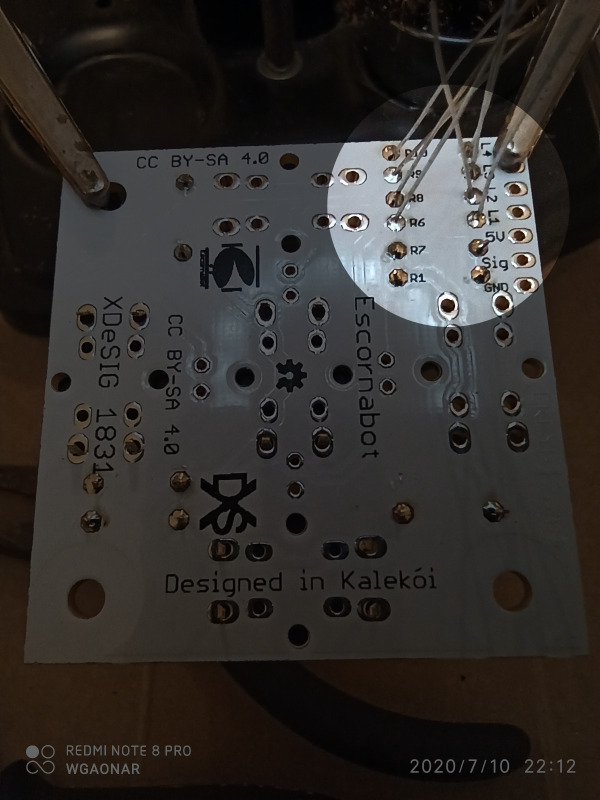
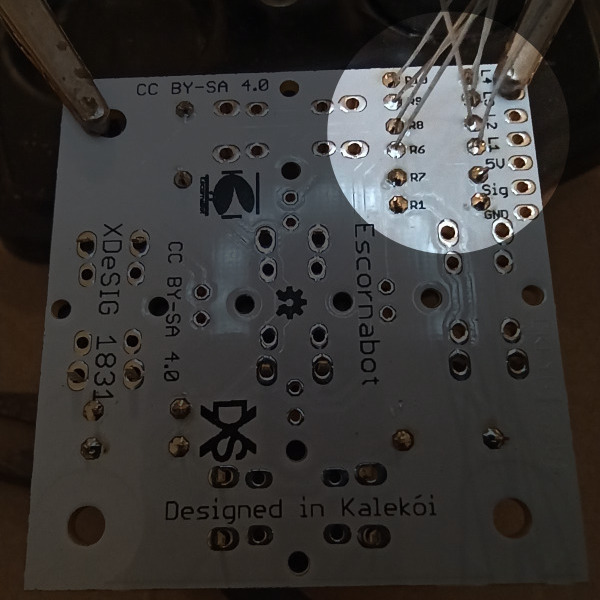
First images for soldering were included

diff --git a/Escornabot.md b/Escornabot.md
@@ -63,7 +63,7 @@ El cuerpo del Escornabot está compuesto por 7 partes impresas en 3D que se mues
 <h1>Componentes Electrónicos</h1>
 
 <h2>Lista de Componentes Electrónicos</h2>
-La siguiente tabla detalla la cantidad, descripción y la tarjeta (Botonera o la CPU) en la que irán colocados cada uno de los componentes del Escornabot. 
+La siguiente tabla detalla la cantidad y descripción de todos lo componentes electrónicos utilizados para el Escornabot y también la tarjeta, Botonera o CPU, en la que irán colocados. 
 
 <table>
     <colgroup>
@@ -73,7 +73,7 @@ La siguiente tabla detalla la cantidad, descripción y la tarjeta (Botonera o la
        <col span="1" style="width: 1%;">
        <col span="1" style="width: 1%;">
     </colgroup>
-  <caption>Lista de Componentes para el Escornabot</caption>
+  <caption>Tabla 1: Lista de Componentes para el Escornabot</caption>
   <tr>
     <th style="text-align:center">CANTIDAD TOTAL</th>
     <th style="text-align:center" >DESCRIPCIÓN</th>
@@ -283,6 +283,145 @@ La siguiente tabla detalla la cantidad, descripción y la tarjeta (Botonera o la
     <td style="text-align:center">-</td>
     <td style="text-align:center">-</td>
     <td style="text-align:center">1</td>
+  </tr>
+</table>
+
+<h2>Ensamble de la botonera E_KeyPad V2.2</h2>
+<h3>Lista de componentes para la botonera</h3>
+Los componentes requeridos para ensamblar la botonera y su correspondiente función se enlistan a continuación:
+
+<table>
+    <colgroup>
+       <col span="1" style="width: 10%;">
+       <col span="1" style="width: 10%;">
+       <col span="1" style="width: 20%;">
+       <col span="1" style="width: 40%;">
+    </colgroup>
+  <caption>Tabla 2: Descripción y funcionamiento de los componentes requeridos para la botonera</caption>
+  <tr>
+    <th style="text-align:center">CANT.</th>
+    <th style="text-align:center">DESCRIPCIÓN</th>
+    <th style="text-align:center">ETIQUETA</th>
+    <th style="text-align:center">FUNCIÓN</th>
+  </tr>
+  <tr>
+    <td style="text-align:center">4</td>
+    <td>Resistencia 1 KΩ</td>
+    <td style="text-align:center">R6, R8, R9, R10</td>
+    <td style="text-align:center">Resistencias para la activación de los Leds de la botonera</td>
+  </tr>
+  <tr>
+    <td style="text-align:center;" rowspan="2">5</td>
+    <td rowspan="2">Resistencia 10 KΩ</td>
+    <td>R1, R2, R3, R4</td>
+    <td>En conjunto con los botones, conforman el divisor de voltaje que permiten elegir el movimiento que el esconarbot realizará:
+      <ul>
+        <li>R1 conectada con el botón S1 selecciona un movimiento hacia 
+        <span style="color:white; background-color: blue;"> ADELANTE </span> </li>
+        <li>R2 conectada con el botón S2 selecciona un movimiento hacia la
+        <span style="color:white; background-color: red;"> IZQUIERDA </span> </li>
+        <li>R3 conectada con el botón S3 selecciona un movimiento hacia
+        <span style="color:black; background-color: yellow;"> ATRÁS </span> </li>
+        <li>R4 conectada con el botón S5 realiza la secuencia de movimentos 
+        <span style="color:white; background-color: black;"> GO </span></li>
+      </ul>
+    </td>
+  </tr>
+  <tr>
+    <td style="text-align:center">R7</td>
+    <td><span style="color:red;">Opcional: </span> Está presente en la botonera en caso de que se use una tarjeta de control diferente a la EscornaCPU V1.2 y en la que no se utilice la resistencia interna de PULL-UP del Arduino Nano. En el firmware del robot se tendría que definir la palabra clave: KEYBOARD_WIRES con el valor de 3. 
+    Por precaución, esta resistencia se puede soldar</td>
+  </tr>
+  <tr>
+    <td style="text-align:center">1</td>
+    <td>Resistencia 22 KΩ o de 20KΩ</td>
+    <td style="text-align:center">R5</td>
+    <td>La última resistencia del divisor de voltaje que conectada con el botón S4 selecciona un movimiento hacia la
+    <span style="color:white; background-color: green;"> DERECHA </span> </td>
+  </tr>
+  <tr>
+    <td style="text-align:center">1</td>
+    <td>Led de 3mm azul</td>
+    <td style="text-align:center">R5</td>
+    <td>Led indicador de un movimiento hacia
+    <span style="color:white; background-color: blue;"> ADELANTE </span></td>
+  </tr>
+  <tr>
+    <td style="text-align:center">1</td>
+    <td>Led de 3mm rojo</td>
+    <td style="text-align:center">R5</td>
+    <td>Led indicador de un movimiento hacia la
+    <span style="color:white; background-color: red;"> IZQUIERDA </span></td>
+  </tr>
+  <tr>
+    <td style="text-align:center">1</td>
+    <td>Led de 3mm amarillo</td>
+    <td style="text-align:center">R5</td>
+    <td>Led indicador de un movimiento hacia
+    <span style="color:black; background-color: yellow;"> ATRÁS </span> </td>
+  </tr>
+  <tr>
+    <td style="text-align:center">1</td>
+    <td>Led de 3mm verde</td>
+    <td style="text-align:center">R5</td>
+    <td>Led indicador de un movimiento hacia la
+    <span style="color:white; background-color: green;"> DERECHA </span> </td>
+  </tr>
+  <tr>
+    <td style="text-align:center;" rowspan="2">5</td>
+    <td rowspan="2">Pulsadores de 12mm</td>
+    <td>S1, S2, S3, S4</td>
+    <td>Botones para elegir los movimientos:
+      <ul>
+        <li>S1 selecciona un movimiento hacia 
+        <span style="color:white; background-color: blue;"> ADELANTE </span> </li>
+        <li>S2 selecciona un movimiento hacia la
+        <span style="color:white; background-color: red;"> IZQUIERDA </span> </li>
+        <li>S3 selecciona un movimiento hacia
+        <span style="color:black; background-color: yellow;"> ATRÁS </span> </li>
+        <li>S4 selecciona un movimiento hacia 
+        <span style="color:white; background-color: green;"> DERECHA </span></li>
+      </ul>
+    </td>
+  </tr>
+  <td>S5</td>
+  <td>Botón <span style="color:white; background-color: black;"> GO </span> para realizar la secuencia de movimientos 
+  </td>
+</table>
+
+<h3>Soldadura de las Resistencias</h3>
+Las resistencias no tienen polaridad, así que no importa la orientación en que sean colocadas. Para proceder a soldarlas, colocar las resistencias teniendo presente que los valores correspondan con las etiquetas en la tarjeta. 
+
+La figura 3 muestra los pasos para soldar las resistencias. Tener cuidado con la ubicación de R5 para evitar confundirla con las demás ya que solo se utiliza una.
+
+<table>
+    <colgroup>
+       <col span="1" style="width: 30%;">
+       <col span="1" style="width: 30%;">
+       <col span="1" style="width: 30%;">
+    </colgroup>
+  <tr style="vertical-align:top">
+    <td>
+      <figure>
+        <img src="/assets/Escornabot/Botonera/botonera1.jpg"
+          alt="botonera1">
+        <figcaption>PCB de la botonera vista por debajo con resistencias colocadas para soldar</figcaption>
+      </figure>
+    </td>
+    <td>
+      <figure>
+        <img src="/assets/Escornabot/Botonera/botonera2.jpg"
+          alt="botonera2">
+        <figcaption>Soldadura R1 y R7 de 10 KΩ</figcaption>
+      </figure>
+    </td>
+    <td>
+      <figure>
+        <img src="/assets/Escornabot/Botonera/botonera3.jpg"
+          alt="botonera3">
+        <figcaption>Soldadura de R6, R8, R9, R10 de 1KΩ</figcaption>
+      </figure>
+    </td>
   </tr>
 </table>
 
